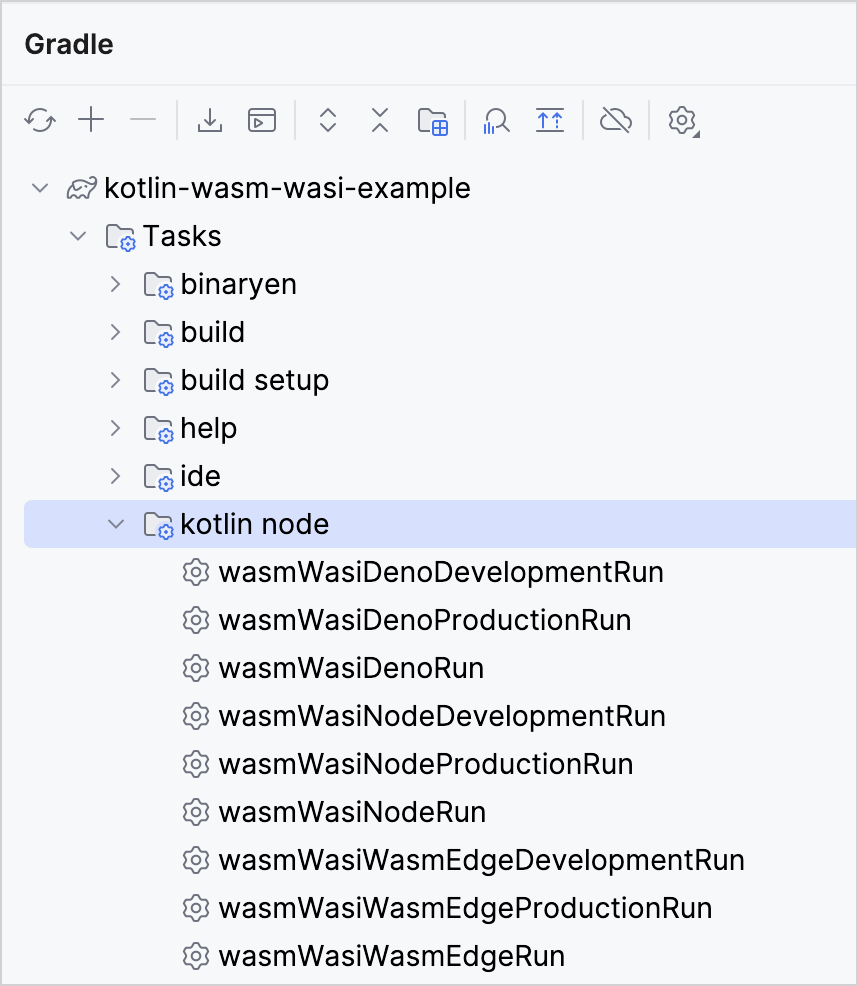
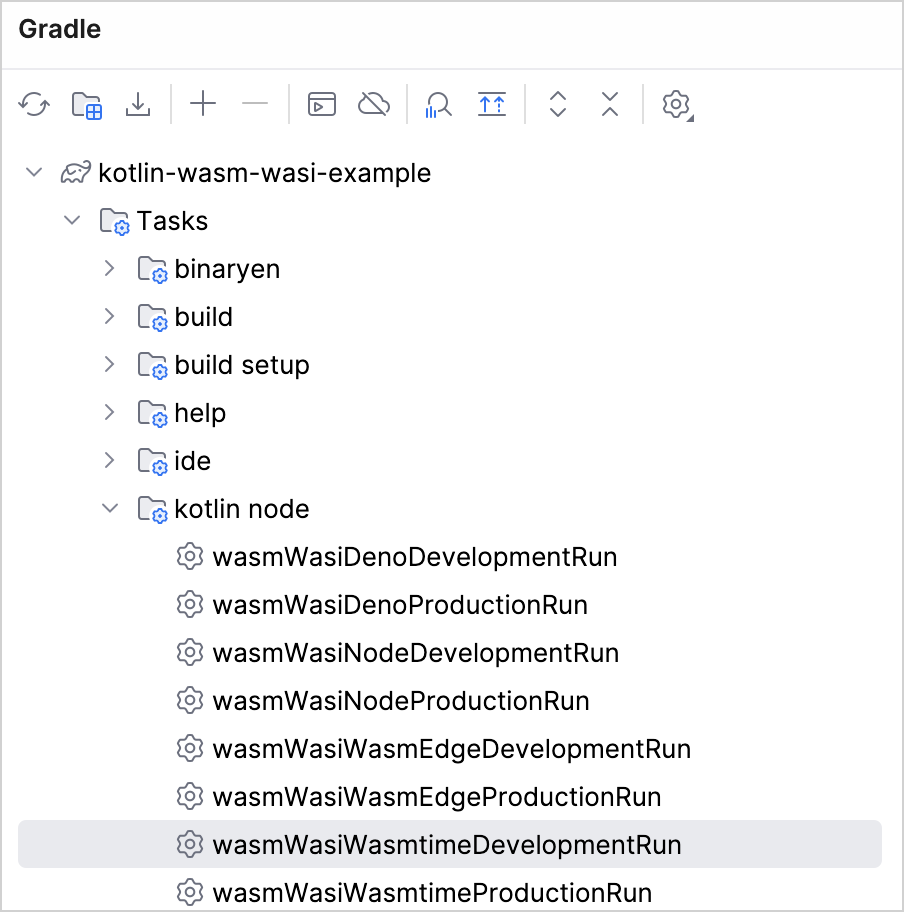
update: adding information about wasmtime in KGP (#5723)
* update: adding information about wasmtime in KGP

* update: removing screenshot because it's not informative in 2.4.20

* chore: cleanup - remove unused image

diff --git a/docs/topics/wasm/wasm-wasi.md b/docs/topics/wasm/wasm-wasi.md
@@ -5,7 +5,7 @@
 This tutorial demonstrates how to run a simple [Kotlin/Wasm](wasm-overview.md) application using the [WebAssembly System Interface (WASI)](https://wasi.dev/) 
 in various WebAssembly virtual machines.
 
-You can find examples of an application running on [Node.js](https://nodejs.org/en), [Deno](https://deno.com/),
+You can find examples of an application running on [Node.js](https://nodejs.org/en), [Wasmtime](https://docs.wasmtime.dev) [Deno](https://deno.com/),
 and [WasmEdge](https://wasmedge.org/) virtual machines. The output is a simple application that uses the standard WASI API.
 
 Currently, Kotlin/Wasm supports WASI 0.1, also known as Preview 1. Support for WASI 0.2 is planned for future releases.
@@ -14,7 +14,7 @@ Currently, Kotlin/Wasm supports WASI 0.1, also known as Preview 1. Support for W
 The [`wasmWasi`](wasm-overview.md#kotlin-wasm-and-wasi) target 
 [uses the new exception handling proposal by default](wasm-configuration.md#exception-handling-proposal), ensuring better compatibility with modern WebAssembly runtimes.
 
-> The Kotlin/Wasm toolchain provides Node.js tasks (`wasmWasiNode*`) out of the box.
+> The Kotlin/Wasm toolchain provides Node.js tasks (`wasmWasiNode*`) and Wasmtime (`wasmWasiWasmtime*`) out of the box.
 > Other task variants in the project, such as those utilizing Deno or WasmEdge, are included as custom tasks.
 >
 {style="tip"}
@@ -44,9 +44,10 @@ The [`wasmWasi`](wasm-overview.md#kotlin-wasm-and-wasi) target
 
 2. From **kotlin-wasm-wasi-example** | **Tasks** | **kotlin node**, select and run one of the following Gradle tasks:
 
-   * **wasmWasiNodeRun** to run the application in Node.js.
-   * **wasmWasiDenoRun** to run the application in Deno.
-   * **wasmWasiWasmEdgeRun** to run the application in WasmEdge.
+   * **wasmWasiNodeDevelopmentRun** to run the application in Node.js.
+   * **wasmWasiWasmtimeDevelopmentRun** to run the application in Wasmtime.
+   * **wasmWasiDenoDevelopmentRun** to run the application in Deno.
+   * **wasmWasiWasmEdgeDevelopmentRun** to run the application in WasmEdge.
 
      > When using Deno on a Windows platform, ensure `deno.exe` is installed. For more information,
      > see [Deno's installation documentation](https://docs.deno.com/runtime/manual/getting_started/installation).
@@ -61,19 +62,25 @@ in the terminal from the ` kotlin-wasm-wasi-template` root directory:
 * To run the application in Node.js:
 
   ```bash
-  ./gradlew wasmWasiNodeRun
+  ./gradlew wasmWasiNodeDevelopmentRun
+  ```
+
+* To run the application in Wasmtime:
+
+  ```bash
+  ./gradlew wasmWasiWasmtimeDevelopmentRun
   ```
 
 * To run the application in Deno:
 
   ```bash
-  ./gradlew wasmWasiDenoRun
+  ./gradlew wasmWasiDenoDevelopmentRun
   ```
 
 * To run the application in WasmEdge:
 
   ```bash
-  ./gradlew wasmWasiWasmEdgeRun
+  ./gradlew wasmWasiWasmEdgeDevelopmentRun
   ```
 
 The terminal displays a message when your application is built successfully:
@@ -87,18 +94,25 @@ You can also test that the Kotlin/Wasm application works correctly across variou
 In the Gradle tool window, run one of the following Gradle tasks from **kotlin-wasm-wasi-example** | **Tasks** | **verification**:
 
 * **wasmWasiNodeTest** to test the application in Node.js.
+* **wasmWasiWasmtimeTest** to test the application in Wasmtime.
 * **wasmWasiDenoTest** to test the application in Deno.
 * **wasmWasiWasmEdgeTest** to test the application in WasmEdge.
 
 ![Kotlin/Wasm and WASI test tasks](wasm-wasi-testing-task.png){width=600}
 
 Alternatively, run one of the following commands
-in the terminal from the ` kotlin-wasm-wasi-template` root directory:
+in the terminal from the `kotlin-wasm-wasi-template` root directory:
     
 * To test the application in Node.js:
 
   ```bash
   ./gradlew wasmWasiNodeTest
+  ```
+
+* To test the application in Wasmtime:
+
+  ```bash
+  ./gradlew wasmWasiWasmtimeTest
   ```
    
 * To test the application in Deno:
@@ -112,10 +126,6 @@ in the terminal from the ` kotlin-wasm-wasi-template` root directory:
   ```bash
   ./gradlew wasmWasiWasmEdgeTest
   ```
-
-The terminal displays the test results:
-
-![Kotlin/Wasm and WASI test](wasm-wasi-tests-results.png){width=600}
 
 ## What's next?
 

diff --git a/docs/topics/gradle/gradle-configure-project.md b/docs/topics/gradle/gradle-configure-project.md
@@ -736,12 +736,12 @@ kotlin {
 }
 ```
 
-For WASI environments, configure the `wasmWasi` target:
+For WASI environments, configure the `wasmWasi` target with Node.js or Wasmtime:
 
 ```kotlin
 kotlin {
     wasmWasi {
-        nodejs {
+        nodejs { // or wasmtime
             /* ... */
         }
     }
